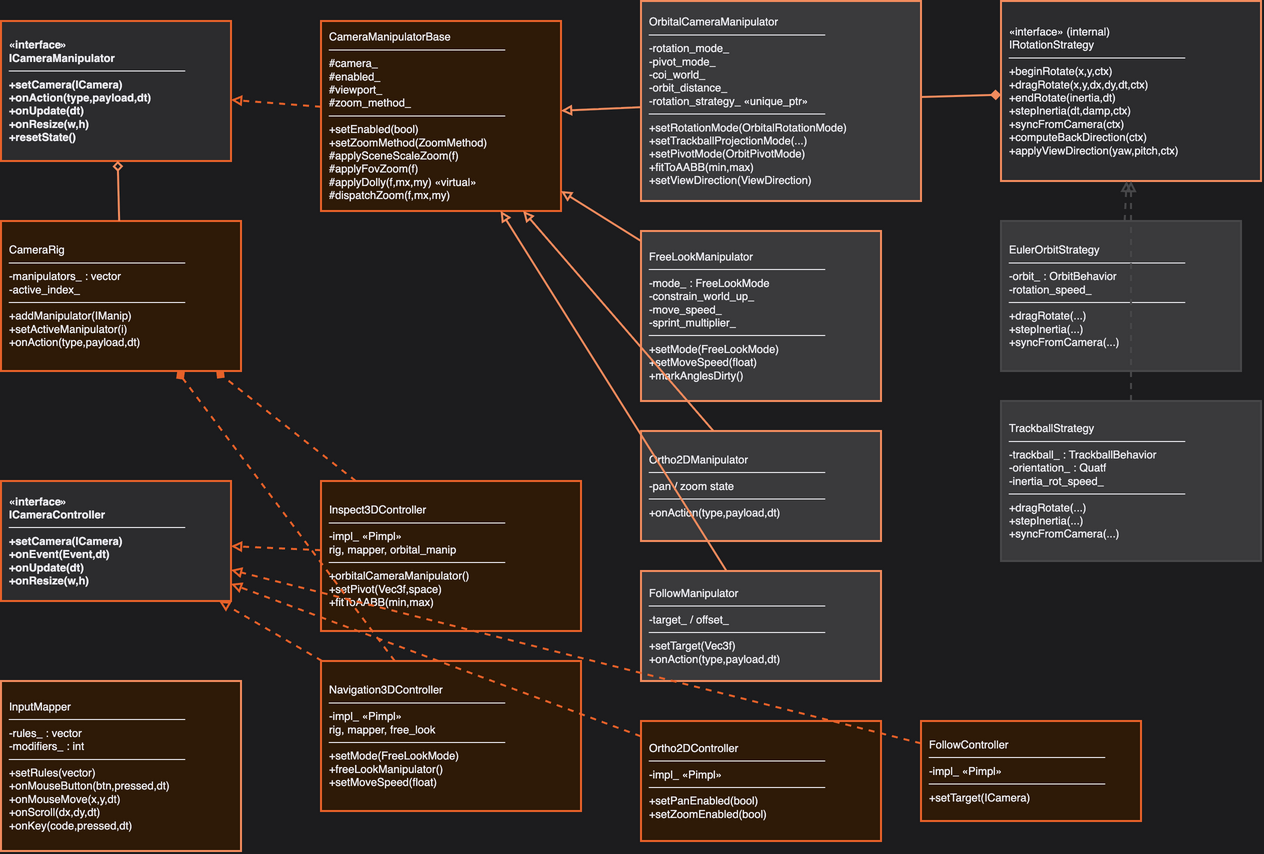
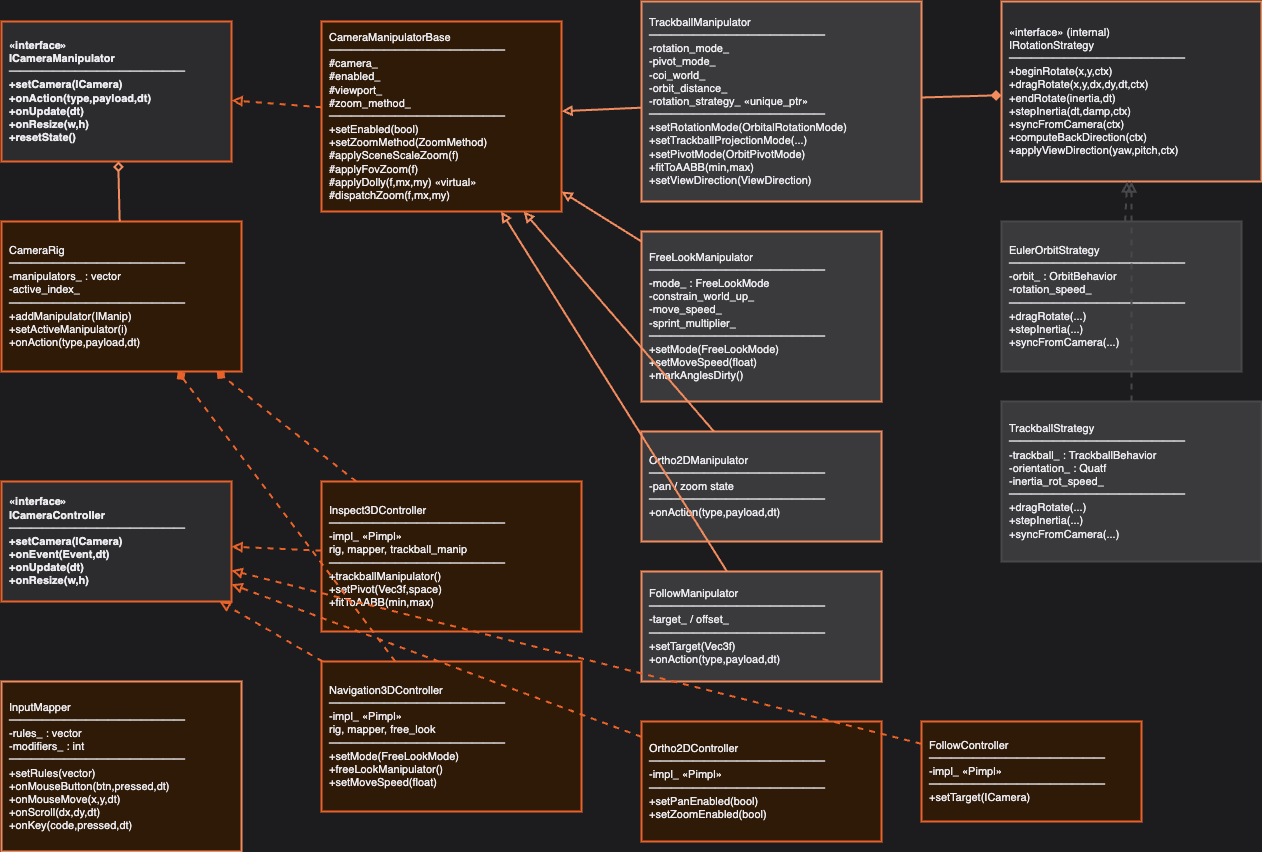
chore: Refactor camera manipulators and update documentation
- Renamed `OrbitalCameraManipulator` to `TrackballManipulator`, removing deprecated compatibility shims and updating all references throughout the codebase.
- Enhanced documentation in `README.md`, `CHANGELOG.md`, and various header files to reflect the new manipulator naming and clarify usage.
- Removed the deprecated `orbital_camera_manipulator.h` header and updated related diagrams to ensure consistency with the new structure.
- Consolidated type headers and improved internal math handling for better organization and accessibility.
- Updated interaction diagrams to accurately represent the current architecture and functionality of the camera manipulation components.

diff --git a/include/vertexnova/interaction/camera_manipulator.h b/include/vertexnova/interaction/camera_manipulator.h
@@ -44,8 +44,8 @@ namespace vne::interaction {
  * simultaneously on a CameraRig — they each receive every action independently.
  *
  * Concrete implementations:
- *  - TrackballManipulator — rotate/pan/zoom around a pivot (quaternion virtual trackball; legacy name
- *    @c OrbitalCameraManipulator in @c orbital_camera_manipulator.h)
+ *  - TrackballManipulator — rotate/pan/zoom around a pivot (quaternion virtual trackball; header
+ *    @c trackball_manipulator.h)
  *  - FreeLookManipulator — WASD movement + mouse look (FPS or unconstrained Fly mode)
  *  - Ortho2DManipulator — orthographic 2D pan, zoom, optional in-plane rotation
  *

diff --git a/include/vertexnova/interaction/interaction.h b/include/vertexnova/interaction/interaction.h
@@ -53,7 +53,6 @@
 // Manipulators
 #include "vertexnova/interaction/camera_manipulator.h"
 #include "vertexnova/interaction/trackball_manipulator.h"
-#include "vertexnova/interaction/orbital_camera_manipulator.h"
 #include "vertexnova/interaction/free_look_manipulator.h"
 #include "vertexnova/interaction/ortho_2d_manipulator.h"
 

diff --git a/CHANGELOG.md b/CHANGELOG.md
@@ -37,7 +37,7 @@ and this project adheres to [Semantic Versioning](https://semver.org/spec/v2.0.0
 
 ### Added
 
-* **`TrackballManipulator`** — renamed from `OrbitalCameraManipulator` (kept as deprecated `using` in `orbital_camera_manipulator.h`). `Inspect3DController::trackballManipulator()`; `orbitalCameraManipulator()` is deprecated.
+* **`TrackballManipulator`** — orbit manipulator API (`trackball_manipulator.h`). `Inspect3DController::trackballManipulator()`; `orbitalCameraManipulator()` is deprecated.
 * **Docs:** [`docs/vnetestbed_interaction_debug.md`](docs/vnetestbed_interaction_debug.md) for troubleshooting reversed pan/look in app integration.
 * **Tests:** touch pinch factor `1/scale`, ortho dolly COI sync, `setPivot` → `eCoi`, edge cases (extreme aspect pan, near-polar FreeLook).
 
@@ -49,19 +49,20 @@ and this project adheres to [Semantic Versioning](https://semver.org/spec/v2.0.0
 * **`scaleTrackballQuaternion`:** tiny-angle path when `scale > 1` to reduce noise amplification.
 * **`interaction_utils`:** validate finite inverse of view-projection before unproject / ray (singular matrix fallback).
 
+### Removed
+
+* **`orbital_camera_manipulator.h`** — deprecated compatibility shim removed. Include `trackball_manipulator.h` and use `TrackballManipulator` (replace former `OrbitalCameraManipulator` uses).
+* **`Navigation3DController::freeLookBehavior()`** — use **`freeLookManipulator()`** only (temporary compatibility shim removed).
+
 ### Changed
 
 * **Type headers consolidated**: `CameraActionType`, `CameraCommandPayload`, gesture and behavioral enums, camera state PODs, and `InputRule` / binding types live in a single [`interaction_types.h`](include/vertexnova/interaction/interaction_types.h). The former shim headers `camera_action.h`, `camera_state.h`, and `input_binding.h` are **removed** — include `interaction_types.h` or [`interaction.h`](include/vertexnova/interaction/interaction.h) instead.
 * **Internal math merged**: `camera_math` and `view_math` are replaced by [`interaction_utils.h`](src/vertexnova/interaction/interaction_utils.h) / [`interaction_utils.cpp`](src/vertexnova/interaction/interaction_utils.cpp) (still internal, not part of the installed public header set).
 
-### Removed
-
-* **`Navigation3DController::freeLookBehavior()`** — use **`freeLookManipulator()`** only (temporary compatibility shim removed).
-
 ### Breaking
 
 * **Type includes**: `vertexnova/interaction/camera_action.h`, `camera_state.h`, and `input_binding.h` are removed; use `vertexnova/interaction/interaction_types.h` (or the umbrella `interaction.h`).
-* **Manipulator naming (Trackball / Orbit stay `*Behavior`)**: Composable camera types are renamed from `*Behavior` to `*Manipulator`; `ICameraBehavior` → `ICameraManipulator`; `CameraBehaviorBase` → `CameraManipulatorBase`. Headers: `camera_manipulator.h`, `camera_manipulator_base.h`, `orbital_camera_manipulator.h`, `free_look_manipulator.h`, `ortho_2d_manipulator.h`, `follow_manipulator.h`. Internal helpers: `manipulator_utils.*` (was `behavior_utils.*`). **`TrackballBehavior`** / **`OrbitBehavior`** and headers `trackball_behavior.h` / `orbit_behavior.h` are unchanged.
+* **Manipulator naming (Trackball / Orbit stay `*Behavior`)**: Composable camera types are renamed from `*Behavior` to `*Manipulator`; `ICameraBehavior` → `ICameraManipulator`; `CameraBehaviorBase` → `CameraManipulatorBase`. Headers: `camera_manipulator.h`, `camera_manipulator_base.h`, `trackball_manipulator.h`, `free_look_manipulator.h`, `ortho_2d_manipulator.h`, `follow_manipulator.h`. Internal helpers: `manipulator_utils.*` (was `behavior_utils.*`). **`TrackballBehavior`** / **`OrbitBehavior`** and headers `trackball_behavior.h` / `orbit_behavior.h` are unchanged.
 * **`CameraRig`**: `addBehavior` / `removeBehavior` / `clearBehaviors` / `behaviors()` → `addManipulator` / `removeManipulator` / `clearManipulators` / `manipulators()`.
 * **Controllers**: `Inspect3DController::orbitalCameraBehavior()` → `orbitalCameraManipulator()`; `Navigation3DController::freeLookBehavior()` → `freeLookManipulator()`; `orbitalCameraBehavior()` → `orbitalCameraManipulator()`; `Ortho2DController::ortho2DBehavior()` → `ortho2DManipulator()`; `FollowController::followBehavior()` → `followManipulator()`.
 
@@ -72,7 +73,7 @@ and this project adheres to [Semantic Versioning](https://semver.org/spec/v2.0.0
 ### Removed
 
 * **`CameraRig::makeOrthoPanZoom()`** — use **`CameraRig::makeOrtho2D()`** instead.
-* **`CameraRig::makeGameCamera()`** — compose **`OrbitalCameraManipulator`** + **`FreeLookManipulator`** on **`CameraRig`** (see `camera_rig.h` usage example), or use **`Inspect3DController`** / **`Navigation3DController`** as appropriate.
+* **`CameraRig::makeGameCamera()`** — compose **`TrackballManipulator`** + **`FreeLookManipulator`** on **`CameraRig`** (see `camera_rig.h` usage example), or use **`Inspect3DController`** / **`Navigation3DController`** as appropriate.
 
 ### Changed
 

diff --git a/docs/vertexnova/tasks_plan/review_and_roadmap.md b/docs/vertexnova/tasks_plan/review_and_roadmap.md
@@ -4,13 +4,13 @@
 
 This document reviews the vneinteraction camera manipulation library against modern game engines (Unity/Cinemachine, Unreal Engine, Godot, O3DE) and medical visualization toolkits (3D Slicer, VTK, MITK). It identifies missing features, potential code issues, and provides a prioritized roadmap for both game and medical visualization use cases.
 
-> **Note (2026)**: The library uses composable **`ICameraManipulator`** types (`OrbitalCameraManipulator`, `FreeLookManipulator`, `Ortho2DManipulator`, `FollowManipulator`) on **`CameraRig`**, with **`OrbitBehavior`** / **`TrackballBehavior`** as orbit math helpers. Legacy `ICameraManipulator` / `OrbitManipulator` etc. were removed in an earlier refactor. High-level controllers: Inspect3DController, Navigation3DController, Ortho2DController, FollowController. Many items below remain relevant for future enhancements; some references to removed classes are historical.
+> **Note (2026)**: The library uses composable **`ICameraManipulator`** types (`TrackballManipulator`, `FreeLookManipulator`, `Ortho2DManipulator`, `FollowManipulator`) on **`CameraRig`**, with **`OrbitBehavior`** / **`TrackballBehavior`** as orbit math helpers. Legacy `ICameraManipulator` / `OrbitManipulator` etc. were removed in an earlier refactor. High-level controllers: Inspect3DController, Navigation3DController, Ortho2DController, FollowController. Many items below remain relevant for future enhancements; some references to removed classes are historical.
 
 ---
 
 ## Current Strengths
 
-- Clean interface hierarchy: `ICameraManipulator` -> `OrbitalCameraManipulator`, `FreeLookManipulator`, `Ortho2DManipulator`, `FollowManipulator`; orbit/trackball math: `OrbitBehavior`, `TrackballBehavior`
+- Clean interface hierarchy: `ICameraManipulator` -> `TrackballManipulator`, `FreeLookManipulator`, `Ortho2DManipulator`, `FollowManipulator`; orbit/trackball math: `OrbitBehavior`, `TrackballBehavior`
 - Command/action layer (`CameraInputAdapter` + `CameraActionType`) decouples input bindings from manipulation logic
 - Both perspective and orthographic camera support across orbit-style behaviors
 - Inertia with exponential decay on pan and rotation
@@ -139,9 +139,9 @@ The library computes `getWorldUnitsPerPixel()` but has no:
 
 **Fix:** Same approach as FPS manipulator.
 
-### `OrbitalCameraManipulator` Y-up handling
+### `TrackballManipulator` Y-up handling
 
-OrbitalCameraManipulator and FreeLookManipulator use world-up for spherical coordinates. Verify Z-up (`setWorldUp`) works correctly across all modes.
+`TrackballManipulator` and `FreeLookManipulator` use world-up for spherical coordinates. Verify Z-up (`setWorldUp`) works correctly across all modes.
 
 **Fix:** Generalize yaw/pitch extraction by projecting onto the world-up axis and its perpendicular plane.
 

diff --git a/README.md b/README.md
@@ -27,7 +27,7 @@ It sits above **vnescene** / **vnemath** (cameras and math) and **vneevents** (e
 
 ## Features
 
-- **Manipulators**: `TrackballManipulator` (quaternion virtual-trackball orbit; deprecated name `OrbitalCameraManipulator`), `FreeLookManipulator`, `Ortho2DManipulator`, `FollowManipulator` — each implements `ICameraManipulator`; orbit math is composed from `OrbitBehavior` / `TrackballBehavior` (Euler and virtual trackball).
+- **Manipulators**: `TrackballManipulator` (quaternion virtual-trackball orbit), `FreeLookManipulator`, `Ortho2DManipulator`, `FollowManipulator` — each implements `ICameraManipulator`; orbit math is composed from `OrbitBehavior` / `TrackballBehavior` (Euler and virtual trackball). `Inspect3DController::orbitalCameraManipulator()` is deprecated; prefer `trackballManipulator()`.
 - **Controllers**: `Inspect3DController`, `Navigation3DController`, `Ortho2DController`, `FollowController` — combine `InputMapper`, `CameraRig`, and manipulators with `onEvent` / `onUpdate`.
 - **InputMapper**: Presets (`orbitPreset`, `fpsPreset`, `gamePreset`, `cadPreset`, `orthoPreset`) and custom `InputRule` rows mapping to `CameraActionType` / `CameraCommandPayload`.
 - **CameraRig**: Multicast lifecycle and actions across multiple manipulators.

diff --git a/docs/vertexnova/interaction/interaction.md b/docs/vertexnova/interaction/interaction.md
@@ -42,7 +42,7 @@ If a PNG does not load, export the matching `.drawio` from [diagrams.net](https:
 
 Export `diagrams/class.drawio` → `diagrams/class.png`.
 
-![Runtime pipeline](diagrams/runtime-pipeline.png)
+![Runtime pipeline](diagrams/runtime.png)
 
 **Figure 3 — Runtime pipeline (per event and per frame)**
 